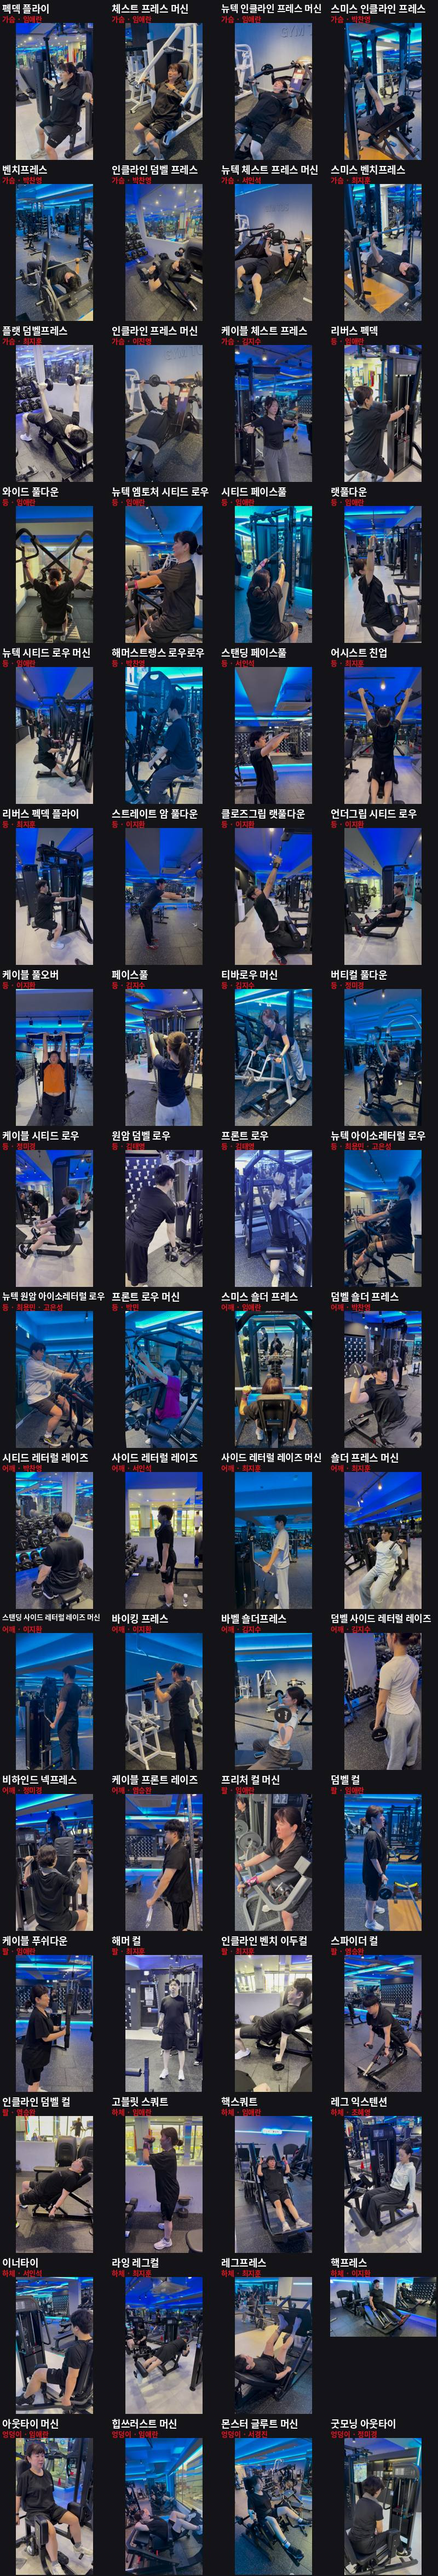
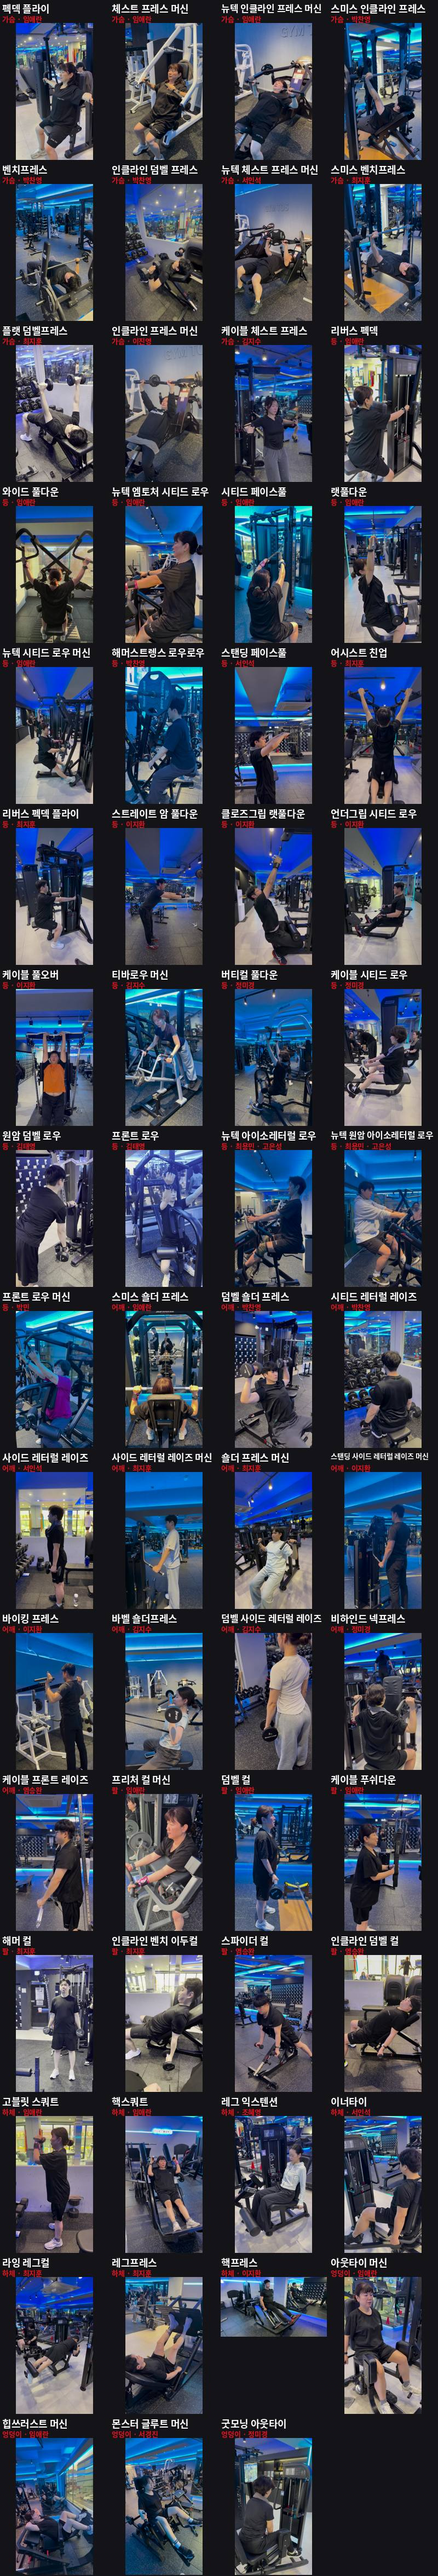
종목 합침: 페이스풀 → 스탠딩 페이스풀 (복습지 2개 이름 변경, 옛 이름은 also로 연결)

diff --git a/m/jisu-480xne/data.js b/m/jisu-480xne/data.js
@@ -42,7 +42,7 @@ window.MEMBER = {
     {"id": "inner-thigh", "dir": "media/form-inner-thigh/", "date": "2026. 11. 17 (화)", "exercise": "이너타이", "exercise_en": "Inner Thigh (Adduction)", "part": "하체", "targets": ["내전근 (허벅지 안쪽)", "치골근 · 박근"], "benefit": "허벅지 안쪽을 채워서 하체가 꽉 차 보이고, 스쿼트·레그프레스 때 무릎과 골반을 단단히 잡아줘요", "key_point": "허벅지 안쪽으로 꽉 모으고, 벌릴 땐 천천히!", "good_points": [{"title": "넓게 벌린 데서 시작했어요", "desc": "다리를 충분히 벌려서 허벅지 안쪽이 늘어난 상태에서 모았어요"}, {"title": "끝까지 모았어요", "desc": "패드가 가운데 닿을 때까지 모아서 안쪽이 꽉 수축됐어요"}, {"title": "상체를 세우고 했어요", "desc": "손잡이를 잡고 몸을 고정해서 허벅지 힘으로만 움직였어요"}], "primary_muscles": [{"name": "내전근", "where": "허벅지 안쪽"}], "secondary_muscles": "치골근 · 박근", "feel_good": "허벅지 안쪽이 꽉 조이고 뻐근해요", "feel_stop": "사타구니가 찌릿하거나, 무릎 안쪽이 아파요", "steps": [{"title": "준비", "desc": "등받이에 기대 앉아 무릎 안쪽에 패드를 대요. 아프지 않을 만큼만 벌리고 손잡이를 잡아요", "chip": "숨 들이마시기", "media": "step1.jpg"}, {"title": "모으기", "desc": "허벅지 안쪽 힘으로 패드를 가운데까지! 끝에서 1초 꽉 조여요", "chip": "1~2초 · 후~ 내쉬며", "media": "step2.webp", "loop": true}, {"title": "천천히 벌리기", "desc": "버티면서 처음 자리까지. 안쪽이 쭉 늘어나는 걸 느껴요", "chip": "2~3초 · 들이마시며", "media": "step3.webp", "loop": true}], "do": ["시작 각도는 아프지 않을 만큼만", "끝에서 1초 꽉 모으기", "벌릴 땐 3초 버티기"], "dont": ["처음부터 너무 넓게 벌리기", "상체를 숙여 반동 쓰기", "벌릴 때 무게에 끌려가기"]},
     {"id": "hack-squat", "dir": "media/form-hack-squat/", "date": "2026. 11. 17 (화)", "exercise": "핵스쿼트", "exercise_en": "Hack Squat", "part": "하체", "targets": ["대퇴사두근 (앞 허벅지)", "대둔근 (엉덩이)"], "benefit": "등과 어깨를 패드에 기대고 레일 따라 움직여서 허리 부담 없이 허벅지 앞과 엉덩이를 깊게 쓸 수 있어요", "key_point": "등은 패드에 붙이고, 무릎은 발끝 방향으로 깊게 앉았다 발바닥 전체로 밀어 올린다!", "good_points": [{"title": "등을 패드에 붙였어요", "desc": "내려가고 올라올 때 등이 떨어지지 않아서 허리가 편했어요"}, {"title": "깊게 앉았어요", "desc": "허벅지가 충분히 접힐 때까지 내려가서 허벅지와 엉덩이를 넓게 썼어요"}, {"title": "무릎이 안으로 모이지 않았어요", "desc": "무릎이 발끝 방향 그대로라 무릎에 무리가 덜 갔어요"}], "primary_muscles": [{"name": "대퇴사두근", "where": "허벅지 앞"}, {"name": "대둔근", "where": "엉덩이"}], "secondary_muscles": "내전근 · 햄스트링 · 척추기립근 · 복근", "feel_good": "허벅지 앞과 엉덩이가 뻐근해요", "feel_stop": "무릎 안쪽이나 허리가 찌릿해요", "steps": [{"title": "준비", "desc": "어깨를 패드 밑에 넣고 등을 붙여요. 발판에 발을 어깨너비로, 발끝은 살짝 바깥. 안전 손잡이를 풀어요", "chip": "숨 들이마시기", "media": "step1.jpg"}, {"title": "앉기", "desc": "무릎을 발끝 방향으로 굽히며 엉덩이를 깊게 내려요. 등은 패드에 붙인 채", "chip": "2~3초 · 들이마시며", "media": "step2.webp", "loop": true}, {"title": "밀어 올리기", "desc": "발바닥 전체로 발판을 밀며 일어나요. 맨 위에서 무릎을 쭉 펴서 잠그지 않아요", "chip": "1~2초 · 후~ 내쉬며", "media": "step3.webp", "loop": true}], "do": ["등과 엉덩이는 패드에 붙인 채", "무릎은 발끝 방향으로", "발바닥 전체로 밀기"], "dont": ["무릎이 안쪽으로 모이기", "뒤꿈치가 발판에서 뜨기", "맨 위에서 무릎을 쭉 펴 잠그기"]},
     {"id": "leg-press", "dir": "media/form-leg-press/", "date": "2026. 11. 17 (화)", "exercise": "레그프레스", "exercise_en": "Leg Press", "part": "하체", "targets": ["대퇴사두근 (앞허벅지)", "대둔근 · 내전근 · 햄스트링"], "benefit": "등을 기대고 하니까 허리 부담 없이 하체를 무겁게 쓸 수 있어요. 허벅지 볼륨을 키워 상체와 균형 맞는 바프 몸을 만들어요", "key_point": "무릎은 발끝 방향으로, 발바닥 전체로 민다!", "good_points": [{"title": "깊게 내렸어요", "desc": "무릎이 가슴 쪽까지 오도록 내려서 허벅지를 넓은 범위로 썼어요"}, {"title": "등과 엉덩이를 붙이고 했어요", "desc": "내려올 때 엉덩이가 들리지 않아서 허리가 안전했어요"}, {"title": "일정한 리듬으로 반복했어요", "desc": "내리고 미는 속도가 회마다 비슷해서 자세가 흐트러지지 않았어요"}], "primary_muscles": [{"name": "대퇴사두근", "where": "허벅지 앞쪽"}], "secondary_muscles": "대둔근 · 내전근 · 햄스트링", "feel_good": "허벅지 앞과 엉덩이가 뻐근해요", "feel_stop": "허리·꼬리뼈가 아프거나, 무릎 안쪽이 찌릿해요", "steps": [{"title": "준비", "desc": "등과 엉덩이를 등받이에 붙이고 발은 골반 너비로 발판 가운데. 다리를 펴고 안전 걸쇠를 풀어요", "chip": "숨 들이마시기", "media": "step1.jpg"}, {"title": "내리기", "desc": "무릎을 발끝 방향으로 굽히며 천천히. 엉덩이가 들리기 직전까지 내려요", "chip": "2~3초 · 들이마시며", "media": "step2.webp", "loop": true}, {"title": "밀기", "desc": "발바닥 전체로 밀어 처음 자리까지! 맨 위에서 무릎은 완전히 펴서 잠그지 않아요", "chip": "1~2초 · 후~ 내쉬며", "media": "step3.webp", "loop": true}], "do": ["등·엉덩이는 등받이에 붙이기", "무릎은 발끝 방향으로", "발바닥 전체로 밀기"], "dont": ["엉덩이가 들릴 만큼 깊게 내리기", "무릎이 안으로 모이기", "맨 위에서 무릎 쾅 잠그기"]},
-    {"id":"face-pull","dir":"media/form-face-pull/","date":"2026. 11. 16 (월)","exercise":"페이스풀","exercise_en":"Face Pull","part":"어깨·등","targets":["후면 삼각근","중부 승모근 · 능형근"],"benefit":"굽은 어깨를 펴주고 어깨 뒤쪽을 탄탄하게 만들어줘요","key_point":"팔꿈치를 높게, 로프를 얼굴 양옆으로 벌려 당긴다!","good_points":[{"title":"서서도 몸통을 고정했어요","desc":"당길 때 몸이 뒤로 젖혀지지 않아서 반동 없이 어깨 뒤쪽으로만 당겼어요"},{"title":"팔꿈치를 높게 들었어요","desc":"팔꿈치가 어깨 높이까지 올라가 어깨 뒤쪽에 자극이 갔어요"},{"title":"같은 속도로 반복했어요","desc":"당길 때와 돌아갈 때 속도가 일정해서 자극이 끊기지 않았어요"}],"primary_muscles":[{"name":"후면 삼각근","where":"어깨 뒤쪽"},{"name":"중부 승모근 · 능형근","where":"날개뼈 사이"}],"secondary_muscles":"회전근개(극하근 · 소원근) · 하부 승모근","feel_good":"어깨 뒤쪽과 날개뼈 사이가 뻐근해요","feel_stop":"목·승모근이 뻐근하게 올라오거나, 팔만 아파요","steps":[{"title":"준비","desc":"케이블을 머리 높이에 맞추고 로프를 잡은 채 한 걸음 물러서요. 다리는 어깨너비, 배에 힘, 팔은 앞으로 쭉","chip":"숨 들이마시기","media":"step1.jpg"},{"title":"당기기","desc":"팔꿈치를 어깨 높이로 들고, 로프를 얼굴 양옆으로 벌리며 당겨요. 날개뼈를 모으고 1초!","chip":"2초 · 후~ 내쉬며","media":"step2.webp","loop":true},{"title":"돌아가기","desc":"어깨가 앞으로 끌려가지 않게 버티면서 천천히 팔을 펴요","chip":"3초 · 들이마시며","media":"step3.webp","loop":true}],"do":["가슴 세우고 상체는 고정","팔꿈치는 손보다 높게","당긴 끝에서 날개뼈 모으고 1초 멈춤"],"dont":["몸을 뒤로 젖혀 반동 쓰기","어깨를 귀 쪽으로 으쓱 올리기","로프를 턱·목 아래로 당기기"]},
+    {"id":"face-pull","dir":"media/form-face-pull/","date":"2026. 11. 16 (월)","exercise":"스탠딩 페이스풀","exercise_en":"Standing Face Pull","part":"어깨·등","targets":["후면 삼각근","중부 승모근 · 능형근"],"benefit":"굽은 어깨를 펴주고 어깨 뒤쪽을 탄탄하게 만들어줘요","key_point":"팔꿈치를 높게, 로프를 얼굴 양옆으로 벌려 당긴다!","good_points":[{"title":"서서도 몸통을 고정했어요","desc":"당길 때 몸이 뒤로 젖혀지지 않아서 반동 없이 어깨 뒤쪽으로만 당겼어요"},{"title":"팔꿈치를 높게 들었어요","desc":"팔꿈치가 어깨 높이까지 올라가 어깨 뒤쪽에 자극이 갔어요"},{"title":"같은 속도로 반복했어요","desc":"당길 때와 돌아갈 때 속도가 일정해서 자극이 끊기지 않았어요"}],"primary_muscles":[{"name":"후면 삼각근","where":"어깨 뒤쪽"},{"name":"중부 승모근 · 능형근","where":"날개뼈 사이"}],"secondary_muscles":"회전근개(극하근 · 소원근) · 하부 승모근","feel_good":"어깨 뒤쪽과 날개뼈 사이가 뻐근해요","feel_stop":"목·승모근이 뻐근하게 올라오거나, 팔만 아파요","steps":[{"title":"준비","desc":"케이블을 머리 높이에 맞추고 로프를 잡은 채 한 걸음 물러서요. 다리는 어깨너비, 배에 힘, 팔은 앞으로 쭉","chip":"숨 들이마시기","media":"step1.jpg"},{"title":"당기기","desc":"팔꿈치를 어깨 높이로 들고, 로프를 얼굴 양옆으로 벌리며 당겨요. 날개뼈를 모으고 1초!","chip":"2초 · 후~ 내쉬며","media":"step2.webp","loop":true},{"title":"돌아가기","desc":"어깨가 앞으로 끌려가지 않게 버티면서 천천히 팔을 펴요","chip":"3초 · 들이마시며","media":"step3.webp","loop":true}],"do":["가슴 세우고 상체는 고정","팔꿈치는 손보다 높게","당긴 끝에서 날개뼈 모으고 1초 멈춤"],"dont":["몸을 뒤로 젖혀 반동 쓰기","어깨를 귀 쪽으로 으쓱 올리기","로프를 턱·목 아래로 당기기"],"also":["페이스풀"]},
     {"id":"hammer-low-row","dir":"media/form-hammer-low-row/","date":"2026. 11. 16 (월)","exercise":"해머스트렝스 로우로우","also":["해머 로우로우","로우로우"],"exercise_en":"Hammer Strength Low Row","part":"등","targets":["광배근 아래쪽","능형근 · 승모근 중부"],"benefit":"낮은 곳에서 골반 쪽으로 당겨서 등 아래쪽까지 꽉 채워줘요. 벌크업 중인 등 두께를 키우기 좋은 원판 기구예요","key_point":"가슴은 패드에 붙이고, 팔꿈치를 골반 쪽 뒤로 보낸다!","good_points":[{"title":"가슴을 패드에 붙였어요","desc":"상체가 앞뒤로 흔들리지 않고 등으로만 당겼어요"},{"title":"팔꿈치를 몸 뒤까지 보냈어요","desc":"끝까지 당겨서 등 가운데가 꽉 조여졌어요"},{"title":"보낼 때 팔을 다 폈어요","desc":"등이 늘어나는 구간까지 써서 운동 범위가 넓었어요"}],"primary_muscles":[{"name":"광배근","where":"겨드랑이 아래~허리 위 등"}],"secondary_muscles":"능형근 · 승모근 중부 · 후면 삼각근 · 이두근","feel_good":"허리 위 등 아래쪽과 날개뼈 사이가 뻐근해요","feel_stop":"허리가 아프거나, 팔뚝만 타요","steps":[{"title":"준비","desc":"의자 높이를 맞춰 가슴을 패드에 붙이고, 손잡이를 잡아 팔을 쭉 펴요","chip":"숨 들이마시기","media":"step1.jpg"},{"title":"당기기","desc":"팔꿈치를 몸통 옆에 붙인 채 골반 쪽 뒤로 끌어당기며 날개뼈를 모아요","chip":"2초 · 후~ 내쉬며","media":"step2.webp","loop":true},{"title":"보내기","desc":"등이 앞으로 늘어나는 느낌으로 천천히, 팔이 다 펴질 때까지","chip":"3초 · 들이마시며","media":"step3.webp","loop":true}],"do":["가슴은 끝까지 패드에 붙이기","팔꿈치는 몸통 옆으로 붙여 당기기","당긴 끝에서 날개뼈 1초 꽉"],"dont":["상체를 뒤로 젖혀 당기기","어깨를 귀 쪽으로 으쓱 올리기","손목을 꺾어 손으로만 당기기"]},
     {"id":"tbar-row","dir":"media/form-tbar-row/","date":"2026. 11. 16 (월)","exercise":"티바로우 머신","exercise_en":"T-bar Row Machine","part":"등","targets":["광배근 아래쪽","능형근 · 승모근 중부"],"benefit":"가슴을 패드에 기대니까 허리 부담 없이 무거운 무게로 등 가운데를 두껍게 채울 수 있어요","key_point":"가슴은 패드에 붙이고, 팔꿈치를 몸통 옆으로 끌어올려 날개뼈를 모은다!","good_points":[{"title":"가슴을 패드에 붙였어요","desc":"상체가 들썩이지 않아서 허리 대신 등으로만 당겼어요"},{"title":"팔꿈치를 몸 옆으로 붙여 당겼어요","desc":"팔꿈치가 벌어지지 않아 등 가운데와 광배근에 힘이 모였어요"},{"title":"내릴 때 끝까지 늘였어요","desc":"팔이 다 펴질 때까지 천천히 내려서 등이 충분히 늘어났어요"}],"primary_muscles":[{"name":"광배근","where":"겨드랑이 아래~허리 위 등"}],"secondary_muscles":"능형근 · 승모근 중부 · 후면 삼각근 · 이두근","feel_good":"날개뼈 사이와 등 가운데가 꽉 조여요","feel_stop":"허리가 뻐근하거나, 팔뚝만 타요","steps":[{"title":"준비","desc":"발판에 발을 디디고 가슴을 패드에 대요. T자 손잡이를 잡고 팔을 쭉 펴요","chip":"숨 들이마시기","media":"step1.jpg"},{"title":"당기기","desc":"팔꿈치를 몸통 옆으로 끌어올리며 손잡이를 배꼽 쪽으로! 날개뼈 모으고 1초","chip":"2초 · 후~ 내쉬며","media":"step2.webp","loop":true},{"title":"내리기","desc":"무게를 버티면서 등이 늘어나는 느낌으로 팔이 펴질 때까지 천천히","chip":"3초 · 들이마시며","media":"step3.webp","loop":true}],"do":["가슴은 패드에 붙인 채","팔꿈치는 몸통 옆으로","당긴 끝에서 날개뼈 1초 꽉"],"dont":["상체를 패드에서 떼며 반동 쓰기","어깨를 귀 쪽으로 으쓱 올리기","손목을 꺾어 손으로만 당기기"]},
     {

diff --git a/m/mikyung-7rq2vd/data.js b/m/mikyung-7rq2vd/data.js
@@ -59,7 +59,7 @@ window.MEMBER = {
       do: ["허리는 등받이에 붙이고 가슴 펴기", "손잡이는 귀 높이까지만 내리기", "위에서 팔꿈치는 살짝 남기기"],
       dont: ["목을 앞으로 빼고 고개 숙이기", "어깨를 귀 쪽으로 으쓱하기", "귀 아래로 깊게 내리기"]
     },
-    {"id":"face-pull","dir":"media/form-face-pull/","date":"2026. 11. 16 (월)","exercise":"페이스풀","exercise_en":"Face Pull","part":"어깨·등","targets":["후면 삼각근","중부 승모근 · 능형근"],"benefit":"굽은 어깨를 펴주고 어깨 뒤쪽을 탄탄하게 만들어줘요","key_point":"팔꿈치를 높게, 로프를 얼굴 양옆으로 벌려 당긴다!","good_points":[{"title":"서서도 몸통을 고정했어요","desc":"당길 때 몸이 뒤로 젖혀지지 않아서 반동 없이 어깨 뒤쪽으로만 당겼어요"},{"title":"팔꿈치를 높게 들었어요","desc":"팔꿈치가 어깨 높이까지 올라가 어깨 뒤쪽에 자극이 갔어요"},{"title":"같은 속도로 반복했어요","desc":"당길 때와 돌아갈 때 속도가 일정해서 자극이 끊기지 않았어요"}],"primary_muscles":[{"name":"후면 삼각근","where":"어깨 뒤쪽"},{"name":"중부 승모근 · 능형근","where":"날개뼈 사이"}],"secondary_muscles":"회전근개(극하근 · 소원근) · 하부 승모근","feel_good":"어깨 뒤쪽과 날개뼈 사이가 뻐근해요","feel_stop":"목·승모근이 뻐근하게 올라오거나, 팔만 아파요","steps":[{"title":"준비","desc":"케이블을 머리 높이에 맞추고 로프를 잡은 채 한 걸음 물러서요. 다리는 어깨너비, 배에 힘, 팔은 앞으로 쭉","chip":"숨 들이마시기","media":"step1.jpg"},{"title":"당기기","desc":"팔꿈치를 어깨 높이로 들고, 로프를 얼굴 양옆으로 벌리며 당겨요. 날개뼈를 모으고 1초!","chip":"2초 · 후~ 내쉬며","media":"step2.webp","loop":true},{"title":"돌아가기","desc":"어깨가 앞으로 끌려가지 않게 버티면서 천천히 팔을 펴요","chip":"3초 · 들이마시며","media":"step3.webp","loop":true}],"do":["가슴 세우고 상체는 고정","팔꿈치는 손보다 높게","당긴 끝에서 날개뼈 모으고 1초 멈춤"],"dont":["몸을 뒤로 젖혀 반동 쓰기","어깨를 귀 쪽으로 으쓱 올리기","로프를 턱·목 아래로 당기기"]},
+    {"id":"face-pull","dir":"media/form-face-pull/","date":"2026. 11. 16 (월)","exercise":"스탠딩 페이스풀","exercise_en":"Standing Face Pull","part":"어깨·등","targets":["후면 삼각근","중부 승모근 · 능형근"],"benefit":"굽은 어깨를 펴주고 어깨 뒤쪽을 탄탄하게 만들어줘요","key_point":"팔꿈치를 높게, 로프를 얼굴 양옆으로 벌려 당긴다!","good_points":[{"title":"서서도 몸통을 고정했어요","desc":"당길 때 몸이 뒤로 젖혀지지 않아서 반동 없이 어깨 뒤쪽으로만 당겼어요"},{"title":"팔꿈치를 높게 들었어요","desc":"팔꿈치가 어깨 높이까지 올라가 어깨 뒤쪽에 자극이 갔어요"},{"title":"같은 속도로 반복했어요","desc":"당길 때와 돌아갈 때 속도가 일정해서 자극이 끊기지 않았어요"}],"primary_muscles":[{"name":"후면 삼각근","where":"어깨 뒤쪽"},{"name":"중부 승모근 · 능형근","where":"날개뼈 사이"}],"secondary_muscles":"회전근개(극하근 · 소원근) · 하부 승모근","feel_good":"어깨 뒤쪽과 날개뼈 사이가 뻐근해요","feel_stop":"목·승모근이 뻐근하게 올라오거나, 팔만 아파요","steps":[{"title":"준비","desc":"케이블을 머리 높이에 맞추고 로프를 잡은 채 한 걸음 물러서요. 다리는 어깨너비, 배에 힘, 팔은 앞으로 쭉","chip":"숨 들이마시기","media":"step1.jpg"},{"title":"당기기","desc":"팔꿈치를 어깨 높이로 들고, 로프를 얼굴 양옆으로 벌리며 당겨요. 날개뼈를 모으고 1초!","chip":"2초 · 후~ 내쉬며","media":"step2.webp","loop":true},{"title":"돌아가기","desc":"어깨가 앞으로 끌려가지 않게 버티면서 천천히 팔을 펴요","chip":"3초 · 들이마시며","media":"step3.webp","loop":true}],"do":["가슴 세우고 상체는 고정","팔꿈치는 손보다 높게","당긴 끝에서 날개뼈 모으고 1초 멈춤"],"dont":["몸을 뒤로 젖혀 반동 쓰기","어깨를 귀 쪽으로 으쓱 올리기","로프를 턱·목 아래로 당기기"],"also":["페이스풀"]},
     {"id":"hammer-low-row","dir":"media/form-hammer-low-row/","date":"2026. 11. 16 (월)","exercise":"해머스트렝스 로우로우","also":["해머 로우로우","로우로우"],"exercise_en":"Hammer Strength Low Row","part":"등","targets":["광배근 아래쪽","능형근 · 승모근 중부"],"benefit":"낮은 곳에서 골반 쪽으로 당겨서 등 아래쪽까지 꽉 채워줘요. 굽은 등을 펴고 뒤태 라인을 탄탄하게 만들어줘요","key_point":"가슴은 패드에 붙이고, 팔꿈치를 골반 쪽 뒤로 보낸다!","good_points":[{"title":"가슴을 패드에 붙였어요","desc":"상체가 앞뒤로 흔들리지 않고 등으로만 당겼어요"},{"title":"팔꿈치를 몸 뒤까지 보냈어요","desc":"끝까지 당겨서 등 가운데가 꽉 조여졌어요"},{"title":"보낼 때 팔을 다 폈어요","desc":"등이 늘어나는 구간까지 써서 운동 범위가 넓었어요"}],"primary_muscles":[{"name":"광배근","where":"겨드랑이 아래~허리 위 등"}],"secondary_muscles":"능형근 · 승모근 중부 · 후면 삼각근 · 이두근","feel_good":"허리 위 등 아래쪽과 날개뼈 사이가 뻐근해요","feel_stop":"허리가 아프거나, 팔뚝만 타요","steps":[{"title":"준비","desc":"의자 높이를 맞춰 가슴을 패드에 붙이고, 손잡이를 잡아 팔을 쭉 펴요","chip":"숨 들이마시기","media":"step1.jpg"},{"title":"당기기","desc":"팔꿈치를 몸통 옆에 붙인 채 골반 쪽 뒤로 끌어당기며 날개뼈를 모아요","chip":"2초 · 후~ 내쉬며","media":"step2.webp","loop":true},{"title":"보내기","desc":"등이 앞으로 늘어나는 느낌으로 천천히, 팔이 다 펴질 때까지","chip":"3초 · 들이마시며","media":"step3.webp","loop":true}],"do":["가슴은 끝까지 패드에 붙이기","팔꿈치는 몸통 옆으로 붙여 당기기","당긴 끝에서 날개뼈 1초 꽉"],"dont":["상체를 뒤로 젖혀 당기기","어깨를 귀 쪽으로 으쓱 올리기","손목을 꺾어 손으로만 당기기"]},
     {"id":"tbar-row","dir":"media/form-tbar-row/","date":"2026. 11. 16 (월)","exercise":"티바로우 머신","exercise_en":"T-bar Row Machine","part":"등","targets":["광배근 아래쪽","능형근 · 승모근 중부"],"benefit":"가슴을 패드에 기대니까 허리 부담 없이 무거운 무게로 등 가운데를 두껍게 채울 수 있어요","key_point":"가슴은 패드에 붙이고, 팔꿈치를 몸통 옆으로 끌어올려 날개뼈를 모은다!","good_points":[{"title":"가슴을 패드에 붙였어요","desc":"상체가 들썩이지 않아서 허리 대신 등으로만 당겼어요"},{"title":"팔꿈치를 몸 옆으로 붙여 당겼어요","desc":"팔꿈치가 벌어지지 않아 등 가운데와 광배근에 힘이 모였어요"},{"title":"내릴 때 끝까지 늘였어요","desc":"팔이 다 펴질 때까지 천천히 내려서 등이 충분히 늘어났어요"}],"primary_muscles":[{"name":"광배근","where":"겨드랑이 아래~허리 위 등"}],"secondary_muscles":"능형근 · 승모근 중부 · 후면 삼각근 · 이두근","feel_good":"날개뼈 사이와 등 가운데가 꽉 조여요","feel_stop":"허리가 뻐근하거나, 팔뚝만 타요","steps":[{"title":"준비","desc":"발판에 발을 디디고 가슴을 패드에 대요. T자 손잡이를 잡고 팔을 쭉 펴요","chip":"숨 들이마시기","media":"step1.jpg"},{"title":"당기기","desc":"팔꿈치를 몸통 옆으로 끌어올리며 손잡이를 배꼽 쪽으로! 날개뼈 모으고 1초","chip":"2초 · 후~ 내쉬며","media":"step2.webp","loop":true},{"title":"내리기","desc":"무게를 버티면서 등이 늘어나는 느낌으로 팔이 펴질 때까지 천천히","chip":"3초 · 들이마시며","media":"step3.webp","loop":true}],"do":["가슴은 패드에 붙인 채","팔꿈치는 몸통 옆으로","당긴 끝에서 날개뼈 1초 꽉"],"dont":["상체를 패드에서 떼며 반동 쓰기","어깨를 귀 쪽으로 으쓱 올리기","손목을 꺾어 손으로만 당기기"]},
     {"id":"wide-pulldown","dir":"media/form-wide-pulldown/","date":"2026. 11. 23 (월)","exercise":"와이드 풀다운","exercise_en":"Wide Pulldown","part":"등","targets":["광배근 (등 옆 날개)","대원근 · 능형근"],"benefit":"손잡이를 넓게 잡고 끌어내려서 등을 옆으로 넓혀줘요. 등이 넓어지면 허리가 더 잘록해 보이는 효과가 있어요","key_point":"손이 아니라 팔꿈치로, 옆구리 쪽으로 끌어내린다!","good_points":[{"title":"양팔을 똑같이 당겼어요","desc":"뒤에서 보면 양쪽 팔꿈치가 같은 높이로 내려와서 한쪽으로 쏠리지 않았어요"},{"title":"팔꿈치를 옆구리로 끌어내렸어요","desc":"손이 아니라 팔꿈치로 당겨서 등 바깥쪽(광배근)이 잘 쓰였어요"},{"title":"끝까지 올려서 늘렸어요","desc":"올라갈 때 팔이 쭉 펴질 때까지 보내서 등이 충분히 늘어났어요"}],"primary_muscles":[{"name":"광배근","where":"겨드랑이 아래 · 등 옆 날개"}],"secondary_muscles":"대원근 · 능형근 · 중부 승모근 · 이두근","feel_good":"겨드랑이 아래 등 옆이 뻐근하게 조여요","feel_stop":"팔뚝만 아프거나, 목·어깨 위쪽이 뻐근해요","steps":[{"title":"준비","desc":"허벅지 패드에 다리를 고정하고 가슴을 세워요. 손잡이를 잡고 팔을 위로 쭉 펴요","chip":"숨 들이마시기","media":"step1.jpg"},{"title":"당기기","desc":"어깨를 먼저 내리고, 팔꿈치를 옆구리 쪽으로 끌어내려요. 손잡이가 어깨 높이에 오면 등 꽉 1초!","chip":"2초 · 후~ 내쉬며","media":"step2.webp","loop":true},{"title":"올리기","desc":"등이 늘어나는 느낌으로 버티면서 팔을 천천히 위로 펴요","chip":"3초 · 들이마시며","media":"step3.webp","loop":true}],"do":["가슴 세우고 엉덩이는 의자에","어깨 먼저 내리고 팔꿈치로 당기기","올릴 때 천천히, 등이 늘어나게"],"dont":["상체를 뒤로 크게 젖히기","어깨를 귀 쪽으로 으쓱 올리기","손목·팔뚝 힘으로만 당기기"]},

diff --git a/404.html b/404.html
@@ -16,7 +16,7 @@
 <link rel="preconnect" href="https://fonts.gstatic.com" crossorigin>
 <link rel="stylesheet" href="https://fonts.googleapis.com/css2?family=Noto+Sans+KR:wght@400;500;700;900&display=swap">
 <script>/* 페이지 넘어갈 때 부드럽게 (2026-11-12) */try{if(localStorage.getItem("ptcoach")||sessionStorage.getItem("ptcoach"))document.documentElement.classList.add("nosp")}catch(e){}addEventListener("pagereveal",function(e){if(!e.viewTransition)return;var d=null;try{d=sessionStorage.getItem("vtdir");sessionStorage.removeItem("vtdir")}catch(x){}var n=window.navigation&&navigation.activation;if(d==="back"||(d!=="fwd"&&n&&n.navigationType==="traverse"))document.documentElement.classList.add("vt-back");e.viewTransition.finished.then(function(){document.documentElement.classList.remove("vt-back")},function(){})});</script>
-<link rel="stylesheet" href="/assets/style.css?v=2611281449">
+<link rel="stylesheet" href="/assets/style.css?v=2611281500">
 <style>
 .nf { margin: 18vh auto 0; max-width: 340px; text-align: center; color: var(--sub); font-size: 14px; line-height: 1.6; }
 .nf b { display: block; color: var(--ink); font-size: 18px; margin-bottom: 6px; }
@@ -36,7 +36,7 @@
 <header class="bar"><div class="bar-in"><a href="#home"><img src="/assets/logo.png" alt="JANG KAREDO"></a><span>PT 노트</span></div></header>
 <main class="wrap"><div class="view" id="view" aria-live="polite"><div class="nf" id="nf"><div class="sp"></div><b>PT 노트 여는 중…</b></div></div></main>
 <nav class="tabs" aria-label="메뉴" id="tabs" hidden><div class="tabs-in"></div></nav>
-<script src="/assets/site.js?v=2611281449"></script>
+<script src="/assets/site.js?v=2611281500"></script>
 <script>
 (function () {
   var mm = location.pathname.match(/^\/m\/([a-z0-9-]{3,40})\/?$/);
@@ -47,7 +47,7 @@
   window.ATT_SLUG = slug;
   var KEY = "pub:m:" + slug + ":member", LS = "ptnote:" + slug + ":member";
   var API = (window.SITE || {}).att_api || "";
-  if (!API) { msg("PT 노트 창고 주소가 아직 없어요", "assets/site.js?v=2611281449 의 att_api 를 채워 주세요."); return; }
+  if (!API) { msg("PT 노트 창고 주소가 아직 없어요", "assets/site.js?v=2611281500 의 att_api 를 채워 주세요."); return; }
   var cached = null, booted = false;
   var cachedStr = null;
   try { cachedStr = localStorage.getItem(LS); cached = JSON.parse(cachedStr || "null"); } catch (e) { cached = null; }
@@ -75,7 +75,7 @@
         M.notices = (d.notices || []).concat(M.notices || []);
       }
       window.MEMBER = M;
-      load("/assets/exicons.js?v=2611281449", function () { load("/assets/app.js?v=2611281449"); });
+      load("/assets/exicons.js?v=2611281500", function () { load("/assets/app.js?v=2611281500"); });
     });
   }
   if (cached && cached.name) boot(cached);

diff --git a/assets/app.js b/assets/app.js
@@ -5679,7 +5679,7 @@
   var RT_CAT = [
     ["가슴", ["벤치프레스", "플랫 덤벨프레스", "인클라인 덤벨 프레스", "스미스 벤치프레스", "스미스 인클라인 프레스", "인클라인 프레스 머신", "체스트 프레스 머신", "뉴텍 체스트 프레스 머신", "펙덱 플라이", "케이블 체스트 프레스", "랙 밴드 푸쉬업"]],
     ["등", ["랫풀다운", "와이드 풀다운", "클로즈그립 랫풀다운", "언더그립 랫풀다운", "어시스트 친업", "뉴텍 버티컬 풀다운", "뉴텍 시티드 로우 머신", "뉴텍 엠토처 시티드 로우", "케이블 시티드 로우", "언더그립 시티드 로우", "해머스트렝스 로우로우", "프론트 로우 머신", "티바로우 머신", "원암 덤벨 로우", "스미스 벤트오버 로우", "스트레이트 암 풀다운", "케이블 풀오버", "덤벨 슈러그", "스미스 슈러그", "백 익스텐션"]],
-    ["어깨", ["숄더 프레스 머신", "비하인드 넥프레스", "덤벨 숄더 프레스", "바벨 숄더프레스", "스미스 숄더 프레스", "사이드 레터럴 레이즈 머신", "사이드 레터럴 레이즈", "케이블 프론트 레이즈", "시티드 레터럴 레이즈", "시티드 페이스풀", "페이스풀", "스탠딩 페이스풀", "리버스 펙덱"]],
+    ["어깨", ["숄더 프레스 머신", "비하인드 넥프레스", "덤벨 숄더 프레스", "바벨 숄더프레스", "스미스 숄더 프레스", "사이드 레터럴 레이즈 머신", "사이드 레터럴 레이즈", "케이블 프론트 레이즈", "시티드 레터럴 레이즈", "시티드 페이스풀", "스탠딩 페이스풀", "리버스 펙덱"]],
     ["팔", ["덤벨 컬", "해머 컬", "인클라인 덤벨 컬", "스파이더 컬", "프리처 컬 머신", "케이블 푸쉬다운", "오버헤드 익스텐션", "덤벨 오버헤드 익스텐션"]],
     ["하체", ["레그 익스텐션", "이너타이", "아웃타이 머신", "플레이트 아웃타이", "레그프레스", "핵프레스", "핵스쿼트", "스미스 스쿼트", "고블릿 스쿼트", "라잉 레그컬", "덤벨 RDL"]],
     ["엉덩이", ["힙쓰러스트 머신", "몬스터 글루트 머신", "케이블 힙 킥백", "힙 익스텐션"]],

diff --git a/coach-tqqnlh/index.html b/coach-tqqnlh/index.html
@@ -18,8 +18,8 @@
 <link rel="stylesheet" href="https://fonts.googleapis.com/css2?family=Noto+Sans+KR:wght@400;500;700;900&display=swap">
 <script>/* 페이지 넘어갈 때 부드럽게 (2026-11-12) */try{if(localStorage.getItem("ptcoach")||sessionStorage.getItem("ptcoach"))document.documentElement.classList.add("nosp")}catch(e){}addEventListener("pagereveal",function(e){if(!e.viewTransition)return;var d=null;try{d=sessionStorage.getItem("vtdir");sessionStorage.removeItem("vtdir")}catch(x){}var n=window.navigation&&navigation.activation;if(d==="back"||(d!=="fwd"&&n&&n.navigationType==="traverse"))document.documentElement.classList.add("vt-back");e.viewTransition.finished.then(function(){document.documentElement.classList.remove("vt-back")},function(){})});</script>
 <script>try{var _t=localStorage.getItem("ptnote:theme");if(_t==="dark"||_t==="light")document.documentElement.setAttribute("data-theme",_t)}catch(e){}</script>
-<link rel="stylesheet" href="/assets/style.css?v=2611281449">
-<script src="/assets/site.js?v=2611281449"></script>
+<link rel="stylesheet" href="/assets/style.css?v=2611281500">
+<script src="/assets/site.js?v=2611281500"></script>
 <style>
 .wrap { padding-bottom: calc(40px + env(safe-area-inset-bottom, 0px)); }
 .sum { display: grid; grid-template-columns: repeat(3, 1fr); gap: 8px; }
@@ -648,7 +648,7 @@ html[data-theme="dark"] .msh-p, html[data-theme="dark"] .csh-p { background: rgb
   </div>
 </aside>
 <script src="members.js"></script>
-<script src="/assets/memo.js?v=2611281449"></script>
+<script src="/assets/memo.js?v=2611281500"></script>
 <script>
 (function () {
   "use strict";
@@ -708,7 +708,7 @@ html[data-theme="dark"] .msh-p, html[data-theme="dark"] .csh-p { background: rgb
     for (var i = 0; i < R.days.length; i++) if (R.days[i].day === key) return !!R.days[i].rest;
     return false;
   }
-  /* 회원 메모 (2026-11-12): 카드마다 📝 한 줄(고정 또는 최신 메모) — 누르면 메모 창(assets/memo.js?v=2611281449) */
+  /* 회원 메모 (2026-11-12): 카드마다 📝 한 줄(고정 또는 최신 메모) — 누르면 메모 창(assets/memo.js?v=2611281500) */
   var MEMO = null;
   function memoRow(slug, name) {
     if (!window.PTMemo || !bnKey()) return "";

diff --git a/m/aeran-bsq16i/index.html b/m/aeran-bsq16i/index.html
@@ -24,7 +24,7 @@
 <link rel="preconnect" href="https://fonts.gstatic.com" crossorigin>
 <link rel="stylesheet" href="https://fonts.googleapis.com/css2?family=Noto+Sans+KR:wght@400;500;700;900&display=swap">
 <script>/* 페이지 넘어갈 때 부드럽게 (2026-11-12) */try{if(localStorage.getItem("ptcoach")||sessionStorage.getItem("ptcoach"))document.documentElement.classList.add("nosp")}catch(e){}addEventListener("pagereveal",function(e){if(!e.viewTransition)return;var d=null;try{d=sessionStorage.getItem("vtdir");sessionStorage.removeItem("vtdir")}catch(x){}var n=window.navigation&&navigation.activation;if(d==="back"||(d!=="fwd"&&n&&n.navigationType==="traverse"))document.documentElement.classList.add("vt-back");e.viewTransition.finished.then(function(){document.documentElement.classList.remove("vt-back")},function(){})});</script>
-<link rel="stylesheet" href="../../assets/style.css?v=2611281449">
+<link rel="stylesheet" href="../../assets/style.css?v=2611281500">
 </head>
 <body>
 <svg width="0" height="0" style="position:absolute" aria-hidden="true">
@@ -41,8 +41,8 @@
   <a href="#notice" data-tab="notice"><svg viewBox="0 0 24 24" fill="none" stroke="currentColor" stroke-width="2" stroke-linejoin="round"><path d="M4 10v4h3l6 4V6L7 10z"/><path d="M16.5 9.5a3.5 3.5 0 0 1 0 5M19 7a7 7 0 0 1 0 10" stroke-linecap="round"/></svg>공지</a>
 </div></nav>
 <script src="data.js"></script>
-<script src="../../assets/site.js?v=2611281449"></script>
-<script src="../../assets/exicons.js?v=2611281449"></script>
-<script src="../../assets/app.js?v=2611281449"></script>
+<script src="../../assets/site.js?v=2611281500"></script>
+<script src="../../assets/exicons.js?v=2611281500"></script>
+<script src="../../assets/app.js?v=2611281500"></script>
 </body>
 </html>

diff --git a/m/chanyoung-dvrara/index.html b/m/chanyoung-dvrara/index.html
@@ -24,7 +24,7 @@
 <link rel="preconnect" href="https://fonts.gstatic.com" crossorigin>
 <link rel="stylesheet" href="https://fonts.googleapis.com/css2?family=Noto+Sans+KR:wght@400;500;700;900&display=swap">
 <script>/* 페이지 넘어갈 때 부드럽게 (2026-11-12) */try{if(localStorage.getItem("ptcoach")||sessionStorage.getItem("ptcoach"))document.documentElement.classList.add("nosp")}catch(e){}addEventListener("pagereveal",function(e){if(!e.viewTransition)return;var d=null;try{d=sessionStorage.getItem("vtdir");sessionStorage.removeItem("vtdir")}catch(x){}var n=window.navigation&&navigation.activation;if(d==="back"||(d!=="fwd"&&n&&n.navigationType==="traverse"))document.documentElement.classList.add("vt-back");e.viewTransition.finished.then(function(){document.documentElement.classList.remove("vt-back")},function(){})});</script>
-<link rel="stylesheet" href="../../assets/style.css?v=2611281449">
+<link rel="stylesheet" href="../../assets/style.css?v=2611281500">
 </head>
 <body>
 <svg width="0" height="0" style="position:absolute" aria-hidden="true">
@@ -41,8 +41,8 @@
   <a href="#notice" data-tab="notice"><svg viewBox="0 0 24 24" fill="none" stroke="currentColor" stroke-width="2" stroke-linejoin="round"><path d="M4 10v4h3l6 4V6L7 10z"/><path d="M16.5 9.5a3.5 3.5 0 0 1 0 5M19 7a7 7 0 0 1 0 10" stroke-linecap="round"/></svg>공지</a>
 </div></nav>
 <script src="data.js"></script>
-<script src="../../assets/site.js?v=2611281449"></script>
-<script src="../../assets/exicons.js?v=2611281449"></script>
-<script src="../../assets/app.js?v=2611281449"></script>
+<script src="../../assets/site.js?v=2611281500"></script>
+<script src="../../assets/exicons.js?v=2611281500"></script>
+<script src="../../assets/app.js?v=2611281500"></script>
 </body>
 </html>

diff --git a/m/hyeyoung-d74063/index.html b/m/hyeyoung-d74063/index.html
@@ -24,7 +24,7 @@
 <link rel="preconnect" href="https://fonts.gstatic.com" crossorigin>
 <link rel="stylesheet" href="https://fonts.googleapis.com/css2?family=Noto+Sans+KR:wght@400;500;700;900&display=swap">
 <script>/* 페이지 넘어갈 때 부드럽게 (2026-11-12) */try{if(localStorage.getItem("ptcoach")||sessionStorage.getItem("ptcoach"))document.documentElement.classList.add("nosp")}catch(e){}addEventListener("pagereveal",function(e){if(!e.viewTransition)return;var d=null;try{d=sessionStorage.getItem("vtdir");sessionStorage.removeItem("vtdir")}catch(x){}var n=window.navigation&&navigation.activation;if(d==="back"||(d!=="fwd"&&n&&n.navigationType==="traverse"))document.documentElement.classList.add("vt-back");e.viewTransition.finished.then(function(){document.documentElement.classList.remove("vt-back")},function(){})});</script>
-<link rel="stylesheet" href="../../assets/style.css?v=2611281449">
+<link rel="stylesheet" href="../../assets/style.css?v=2611281500">
 </head>
 <body>
 <svg width="0" height="0" style="position:absolute" aria-hidden="true">
@@ -41,8 +41,8 @@
   <a href="#notice" data-tab="notice"><svg viewBox="0 0 24 24" fill="none" stroke="currentColor" stroke-width="2" stroke-linejoin="round"><path d="M4 10v4h3l6 4V6L7 10z"/><path d="M16.5 9.5a3.5 3.5 0 0 1 0 5M19 7a7 7 0 0 1 0 10" stroke-linecap="round"/></svg>공지</a>
 </div></nav>
 <script src="data.js"></script>
-<script src="../../assets/site.js?v=2611281449"></script>
-<script src="../../assets/exicons.js?v=2611281449"></script>
-<script src="../../assets/app.js?v=2611281449"></script>
+<script src="../../assets/site.js?v=2611281500"></script>
+<script src="../../assets/exicons.js?v=2611281500"></script>
+<script src="../../assets/app.js?v=2611281500"></script>
 </body>
 </html>

diff --git a/m/inseok-02j3ia/index.html b/m/inseok-02j3ia/index.html
@@ -24,7 +24,7 @@
 <link rel="preconnect" href="https://fonts.gstatic.com" crossorigin>
 <link rel="stylesheet" href="https://fonts.googleapis.com/css2?family=Noto+Sans+KR:wght@400;500;700;900&display=swap">
 <script>/* 페이지 넘어갈 때 부드럽게 (2026-11-12) */try{if(localStorage.getItem("ptcoach")||sessionStorage.getItem("ptcoach"))document.documentElement.classList.add("nosp")}catch(e){}addEventListener("pagereveal",function(e){if(!e.viewTransition)return;var d=null;try{d=sessionStorage.getItem("vtdir");sessionStorage.removeItem("vtdir")}catch(x){}var n=window.navigation&&navigation.activation;if(d==="back"||(d!=="fwd"&&n&&n.navigationType==="traverse"))document.documentElement.classList.add("vt-back");e.viewTransition.finished.then(function(){document.documentElement.classList.remove("vt-back")},function(){})});</script>
-<link rel="stylesheet" href="../../assets/style.css?v=2611281449">
+<link rel="stylesheet" href="../../assets/style.css?v=2611281500">
 </head>
 <body>
 <svg width="0" height="0" style="position:absolute" aria-hidden="true">
@@ -41,8 +41,8 @@
   <a href="#notice" data-tab="notice"><svg viewBox="0 0 24 24" fill="none" stroke="currentColor" stroke-width="2" stroke-linejoin="round"><path d="M4 10v4h3l6 4V6L7 10z"/><path d="M16.5 9.5a3.5 3.5 0 0 1 0 5M19 7a7 7 0 0 1 0 10" stroke-linecap="round"/></svg>공지</a>
 </div></nav>
 <script src="data.js"></script>
-<script src="../../assets/site.js?v=2611281449"></script>
-<script src="../../assets/exicons.js?v=2611281449"></script>
-<script src="../../assets/app.js?v=2611281449"></script>
+<script src="../../assets/site.js?v=2611281500"></script>
+<script src="../../assets/exicons.js?v=2611281500"></script>
+<script src="../../assets/app.js?v=2611281500"></script>
 </body>
 </html>

diff --git a/m/jihun-g9kgdo/index.html b/m/jihun-g9kgdo/index.html
@@ -24,7 +24,7 @@
 <link rel="preconnect" href="https://fonts.gstatic.com" crossorigin>
 <link rel="stylesheet" href="https://fonts.googleapis.com/css2?family=Noto+Sans+KR:wght@400;500;700;900&display=swap">
 <script>/* 페이지 넘어갈 때 부드럽게 (2026-11-12) */try{if(localStorage.getItem("ptcoach")||sessionStorage.getItem("ptcoach"))document.documentElement.classList.add("nosp")}catch(e){}addEventListener("pagereveal",function(e){if(!e.viewTransition)return;var d=null;try{d=sessionStorage.getItem("vtdir");sessionStorage.removeItem("vtdir")}catch(x){}var n=window.navigation&&navigation.activation;if(d==="back"||(d!=="fwd"&&n&&n.navigationType==="traverse"))document.documentElement.classList.add("vt-back");e.viewTransition.finished.then(function(){document.documentElement.classList.remove("vt-back")},function(){})});</script>
-<link rel="stylesheet" href="../../assets/style.css?v=2611281449">
+<link rel="stylesheet" href="../../assets/style.css?v=2611281500">
 </head>
 <body>
 <svg width="0" height="0" style="position:absolute" aria-hidden="true">
@@ -41,8 +41,8 @@
   <a href="#notice" data-tab="notice"><svg viewBox="0 0 24 24" fill="none" stroke="currentColor" stroke-width="2" stroke-linejoin="round"><path d="M4 10v4h3l6 4V6L7 10z"/><path d="M16.5 9.5a3.5 3.5 0 0 1 0 5M19 7a7 7 0 0 1 0 10" stroke-linecap="round"/></svg>공지</a>
 </div></nav>
 <script src="data.js"></script>
-<script src="../../assets/site.js?v=2611281449"></script>
-<script src="../../assets/exicons.js?v=2611281449"></script>
-<script src="../../assets/app.js?v=2611281449"></script>
+<script src="../../assets/site.js?v=2611281500"></script>
+<script src="../../assets/exicons.js?v=2611281500"></script>
+<script src="../../assets/app.js?v=2611281500"></script>
 </body>
 </html>

diff --git a/m/jihwan-t7m4qe/index.html b/m/jihwan-t7m4qe/index.html
@@ -24,7 +24,7 @@
 <link rel="preconnect" href="https://fonts.gstatic.com" crossorigin>
 <link rel="stylesheet" href="https://fonts.googleapis.com/css2?family=Noto+Sans+KR:wght@400;500;700;900&display=swap">
 <script>/* 페이지 넘어갈 때 부드럽게 (2026-11-12) */try{if(localStorage.getItem("ptcoach")||sessionStorage.getItem("ptcoach"))document.documentElement.classList.add("nosp")}catch(e){}addEventListener("pagereveal",function(e){if(!e.viewTransition)return;var d=null;try{d=sessionStorage.getItem("vtdir");sessionStorage.removeItem("vtdir")}catch(x){}var n=window.navigation&&navigation.activation;if(d==="back"||(d!=="fwd"&&n&&n.navigationType==="traverse"))document.documentElement.classList.add("vt-back");e.viewTransition.finished.then(function(){document.documentElement.classList.remove("vt-back")},function(){})});</script>
-<link rel="stylesheet" href="../../assets/style.css?v=2611281449">
+<link rel="stylesheet" href="../../assets/style.css?v=2611281500">
 </head>
 <body>
 <svg width="0" height="0" style="position:absolute" aria-hidden="true">
@@ -41,8 +41,8 @@
   <a href="#notice" data-tab="notice"><svg viewBox="0 0 24 24" fill="none" stroke="currentColor" stroke-width="2" stroke-linejoin="round"><path d="M4 10v4h3l6 4V6L7 10z"/><path d="M16.5 9.5a3.5 3.5 0 0 1 0 5M19 7a7 7 0 0 1 0 10" stroke-linecap="round"/></svg>공지</a>
 </div></nav>
 <script src="data.js"></script>
-<script src="../../assets/site.js?v=2611281449"></script>
-<script src="../../assets/exicons.js?v=2611281449"></script>
-<script src="../../assets/app.js?v=2611281449"></script>
+<script src="../../assets/site.js?v=2611281500"></script>
+<script src="../../assets/exicons.js?v=2611281500"></script>
+<script src="../../assets/app.js?v=2611281500"></script>
 </body>
 </html>

diff --git a/m/jinyoung-n73rzx/index.html b/m/jinyoung-n73rzx/index.html
@@ -24,7 +24,7 @@
 <link rel="preconnect" href="https://fonts.gstatic.com" crossorigin>
 <link rel="stylesheet" href="https://fonts.googleapis.com/css2?family=Noto+Sans+KR:wght@400;500;700;900&display=swap">
 <script>/* 페이지 넘어갈 때 부드럽게 (2026-11-12) */try{if(localStorage.getItem("ptcoach")||sessionStorage.getItem("ptcoach"))document.documentElement.classList.add("nosp")}catch(e){}addEventListener("pagereveal",function(e){if(!e.viewTransition)return;var d=null;try{d=sessionStorage.getItem("vtdir");sessionStorage.removeItem("vtdir")}catch(x){}var n=window.navigation&&navigation.activation;if(d==="back"||(d!=="fwd"&&n&&n.navigationType==="traverse"))document.documentElement.classList.add("vt-back");e.viewTransition.finished.then(function(){document.documentElement.classList.remove("vt-back")},function(){})});</script>
-<link rel="stylesheet" href="../../assets/style.css?v=2611281449">
+<link rel="stylesheet" href="../../assets/style.css?v=2611281500">
 </head>
 <body>
 <svg width="0" height="0" style="position:absolute" aria-hidden="true">
@@ -41,8 +41,8 @@
   <a href="#notice" data-tab="notice"><svg viewBox="0 0 24 24" fill="none" stroke="currentColor" stroke-width="2" stroke-linejoin="round"><path d="M4 10v4h3l6 4V6L7 10z"/><path d="M16.5 9.5a3.5 3.5 0 0 1 0 5M19 7a7 7 0 0 1 0 10" stroke-linecap="round"/></svg>공지</a>
 </div></nav>
 <script src="data.js"></script>
-<script src="../../assets/site.js?v=2611281449"></script>
-<script src="../../assets/exicons.js?v=2611281449"></script>
-<script src="../../assets/app.js?v=2611281449"></script>
+<script src="../../assets/site.js?v=2611281500"></script>
+<script src="../../assets/exicons.js?v=2611281500"></script>
+<script src="../../assets/app.js?v=2611281500"></script>
 </body>
 </html>
